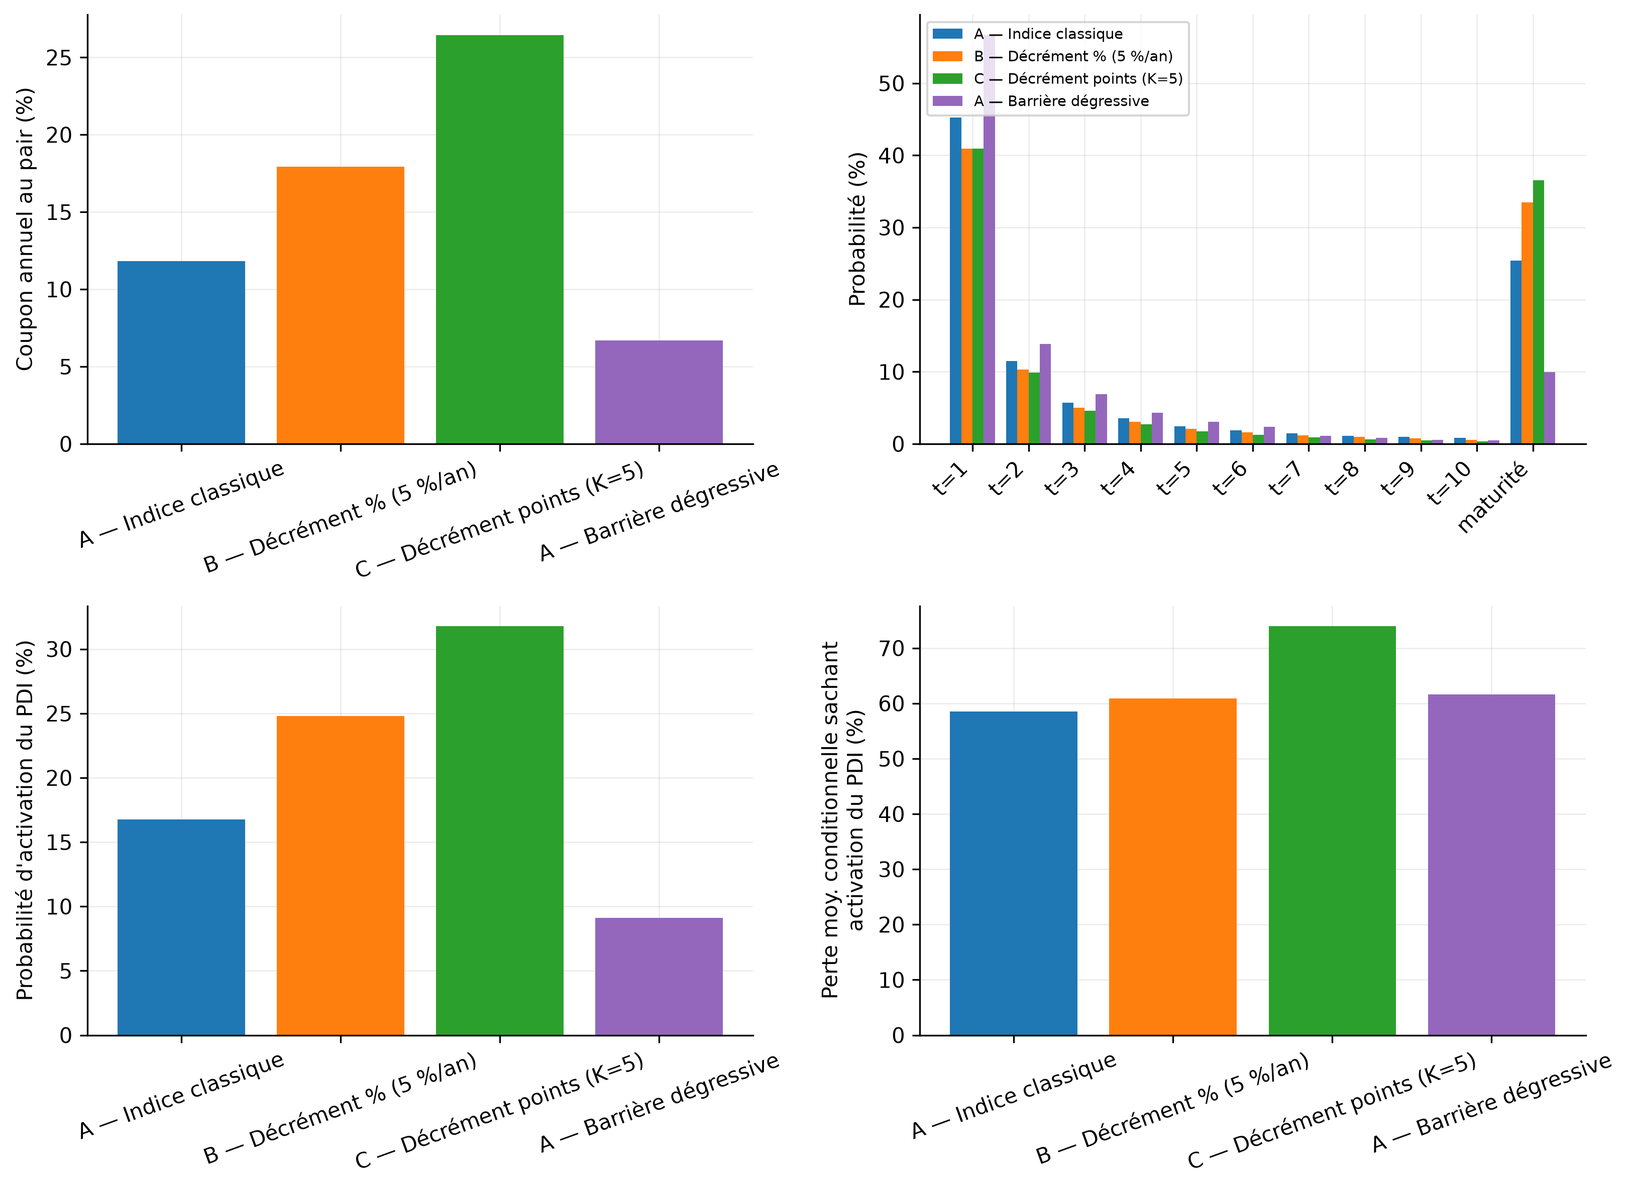
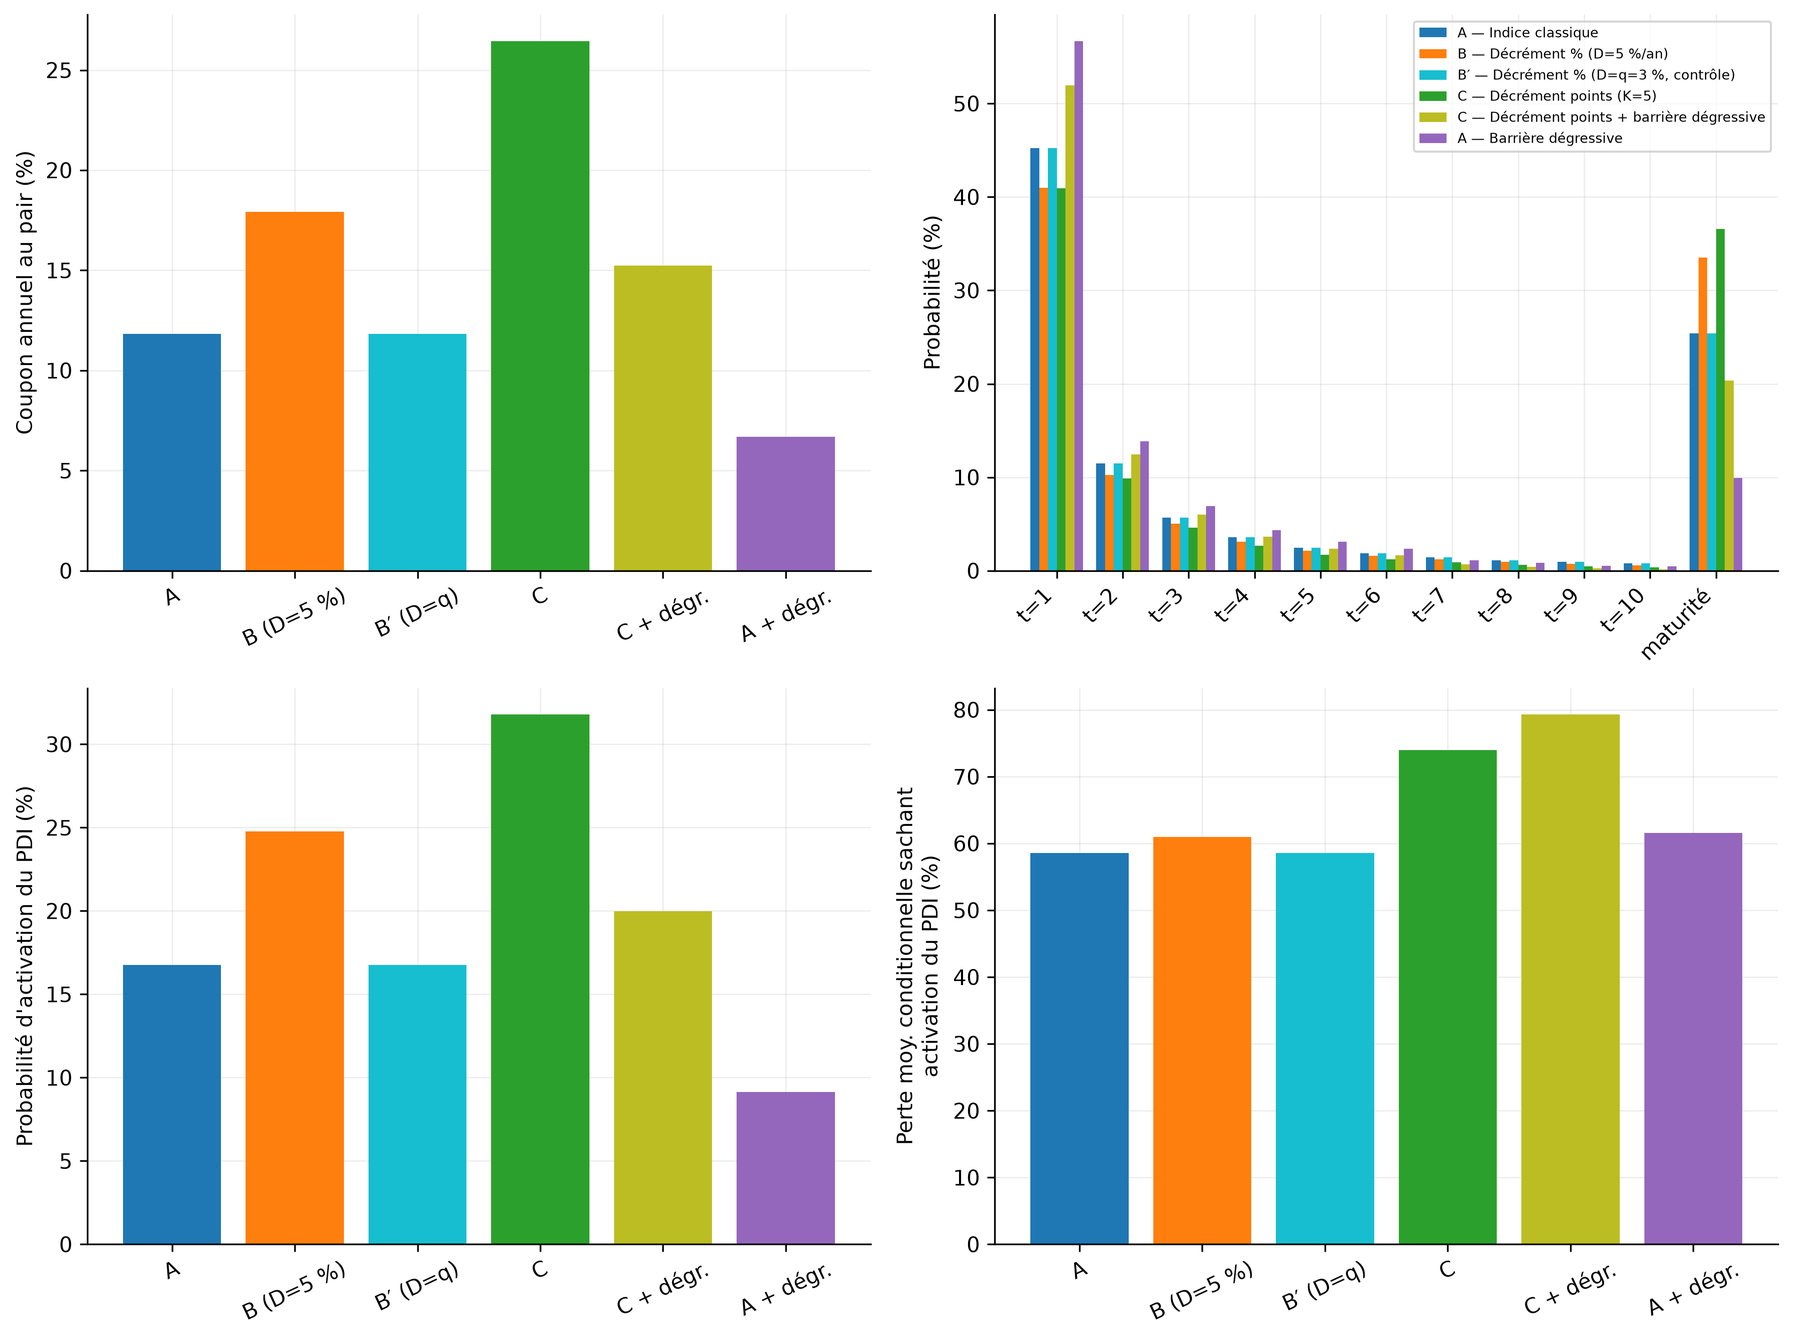
Figure 2 : ajoute les cas de contrôle B' et C'
B' — décrément en % avec D=q=3% : cas de contrôle qui isole l'effet du
mécanisme de décrément de l'effet "D > dividende réel". Ajout de
indice_decrement_pourcentage() (dérivé de U sans re-simulation) et de
deux tests vérifiant que B' est identique à A trajectoire par
trajectoire, et donne donc le même coupon au pair.

C' — décrément en points + barrière dégressive : configuration proche
de ce qui se commercialise en retail, où la barrière dégressive
compense le fait que le décrément seul rend le rappel trop improbable.
Coupon au pair 15.2% (contre 26.4% pour C seul), à comparer aux 8-15%
de marché.

Ajoute le forward théorique à 10 ans de chaque sous-jacent au CSV de
résultats (variable qui explique l'essentiel des écarts de coupon).

README : précise que le 26.45% du cas C est un résultat de
démonstration (décrément 5% + barrière plate 100%), pas un niveau de
marché, et documente l'interprétation des cas B' et C'.

Claude-Session: https://claude.ai/code/session_015eQVDicu4ABDg8MAAznT6W

diff --git a/scripts/fig2_autocall_vs_decrement.py b/scripts/fig2_autocall_vs_decrement.py
@@ -2,13 +2,23 @@
 
 Compare, pour un autocall 10 ans / observations annuelles / PDI 60% à maturité :
     A             indice classique (price return)
-    B             indice à décrément en % (5%/an)
+    B             indice à décrément en % (D=5 %/an)
+    B_prime       indice à décrément en % avec D=q=3 % — cas de contrôle : isole
+                  l'effet du mécanisme de décrément de l'effet "D > q" (voir
+                  src/indices.py::indice_decrement_pourcentage). Doit donner le
+                  même coupon au pair qu'A (vérifié par les tests).
     C             indice à décrément en points (K=5, calibré à 5% de S0)
+    C_prime       indice C avec barrière de rappel dégressive (-5 %/an, plancher
+                  70 %) — configuration réellement commercialisée en retail : le
+                  décrément seul rend le rappel trop improbable (cf. C), la
+                  barrière dégressive compense.
     A_degressive  indice A avec barrière de rappel dégressive (-5%/an, plancher 70%)
 
 Pour chacun : coupon au pair (solveur Brent, trajectoires figées), distribution
-des dates de rappel, probabilité d'activation du PDI et perte moyenne
-conditionnelle. Écrit figures/figure2_autocall_vs_decrement.png (300 dpi) et
+des dates de rappel, probabilité d'activation du PDI, perte moyenne
+conditionnelle, et forward théorique à maturité de l'indice sous-jacent (la
+variable qui explique l'essentiel des écarts de coupon entre cas). Écrit
+figures/figure2_autocall_vs_decrement.png (300 dpi) et
 figures/figure2_resultats.{csv,md}.
 """
 
@@ -22,9 +32,14 @@ import matplotlib.pyplot as plt
 
 sys.path.insert(0, os.path.abspath(os.path.join(os.path.dirname(__file__), "..")))
 
-from src.indices import simuler_indices, barriere_degressive
+from src.indices import (
+    simuler_indices,
+    barriere_degressive,
+    indice_decrement_pourcentage,
+    forward_theorique_decrement_points,
+)
 from src.coupon_solver import resoudre_coupon_pair
-from src.style_graphique import appliquer_style, PALETTE, LIBELLES, ORDRE_CAS
+from src.style_graphique import appliquer_style, PALETTE, LIBELLES, LIBELLES_COURTS, ORDRE_CAS
 from src.reporting import ecrire_csv_et_md
 
 # ---------------------------------------------------------------------------
@@ -55,11 +70,33 @@ def construire_cas(indices):
     barriere_deg = barriere_degressive(
         DATES_OBS, niveau_initial=BARRIERE_AUTOCALL, baisse_annuelle=0.05, plancher=0.70
     )
+    # B' : décrément en % au niveau du dividende réel (D=q) — cas de contrôle,
+    # dérivé de U sans re-simulation (cf. indice_decrement_pourcentage).
+    B_prime_obs = indice_decrement_pourcentage(indices["U"], indices["t_obs"], D=Q)
     return {
         "A": (indices["A"][:, 1:], barriere_plate),
         "B": (indices["B"][:, 1:], barriere_plate),
+        "B_prime": (B_prime_obs[:, 1:], barriere_plate),
         "C": (indices["C"][:, 1:], barriere_plate),
+        "C_prime": (indices["C"][:, 1:], barriere_deg),
         "A_degressive": (indices["A"][:, 1:], barriere_deg),
+    }
+
+
+def forward_theorique_par_cas():
+    """Forward théorique à MATURITE de l'indice sous-jacent effectivement pricé
+    dans chaque cas (seule la barrière diffère pour A_degressive et C_prime,
+    donc même forward que leur cas de base A / C)."""
+    forward_A = S0 * np.exp((R - Q) * MATURITE)
+    forward_B = S0 * np.exp((R - D) * MATURITE)
+    forward_C = forward_theorique_decrement_points(S0, R, K, MATURITE, NB_PAS_AN)
+    return {
+        "A": forward_A,
+        "B": forward_B,
+        "B_prime": forward_A,   # D=q => identique à A (voir test dédié)
+        "C": forward_C,
+        "C_prime": forward_C,   # même sous-jacent C, seule la barrière change
+        "A_degressive": forward_A,
     }
 
 
@@ -82,6 +119,7 @@ def main():
     print(f"  -> simulation terminée en {time.time() - t0:.1f}s")
 
     cas = construire_cas(indices)
+    forward_par_cas = forward_theorique_par_cas()
 
     lignes = []
     resultats = {}
@@ -103,6 +141,7 @@ def main():
 
         ligne = {
             "cas": LIBELLES[nom],
+            "forward_theorique_10y": forward_par_cas[nom],
             "coupon_pair_pct": coupon_pair * 100,
             "prix_verif_pct": resultat.prix * 100,
             "erreur_std_mc_pct": resultat.erreur_std * 100,
@@ -114,7 +153,8 @@ def main():
             ligne[f"proba_rappel_t{int(t)}_pct"] = proba_rappel[t] * 100
         lignes.append(ligne)
         print(f"  {nom:15s} coupon au pair = {coupon_pair * 100:5.2f}%  "
-              f"(prix vérif = {resultat.prix * 100:.2f}%, erreur std {resultat.erreur_std * 100:.3f}%)")
+              f"(forward 10y = {forward_par_cas[nom]:.1f}, "
+              f"prix vérif = {resultat.prix * 100:.2f}%, erreur std {resultat.erreur_std * 100:.3f}%)")
 
     df = pd.DataFrame(lignes)
     os.makedirs(REPERTOIRE_FIGURES, exist_ok=True)
@@ -126,47 +166,50 @@ def main():
 
 def tracer_figure(resultats):
     appliquer_style()
-    fig, axes = plt.subplots(2, 2, figsize=(11, 8))
+    fig, axes = plt.subplots(2, 2, figsize=(12, 9))
 
     noms = ORDRE_CAS
     couleurs = [PALETTE[n] for n in noms]
     libelles = [LIBELLES[n] for n in noms]
+    libelles_courts = [LIBELLES_COURTS[n] for n in noms]
+    n_cas = len(noms)
 
     # (a) coupon au pair
     ax = axes[0, 0]
     coupons = [resultats[n]["coupon_pair"] * 100 for n in noms]
-    ax.bar(libelles, coupons, color=couleurs)
+    ax.bar(libelles_courts, coupons, color=couleurs)
     ax.set_ylabel("Coupon annuel au pair (%)")
-    ax.tick_params(axis="x", rotation=20)
+    ax.tick_params(axis="x", rotation=25)
 
     # (b) distribution des dates de rappel + probabilité d'aller à maturité
     ax = axes[0, 1]
-    largeur = 0.2
+    largeur = 0.8 / n_cas
     x_dates = np.arange(len(DATES_OBS) + 1)
     etiquettes_x = [f"t={int(t)}" for t in DATES_OBS] + ["maturité"]
     for i, n in enumerate(noms):
         proba_rappel = resultats[n]["proba_rappel"]
         proba_maturite = resultats[n]["proba_maturite"]
         valeurs = [proba_rappel[t] * 100 for t in DATES_OBS] + [proba_maturite * 100]
-        ax.bar(x_dates + (i - 1.5) * largeur, valeurs, width=largeur, color=PALETTE[n], label=libelles[i])
+        decalage = (i - (n_cas - 1) / 2) * largeur
+        ax.bar(x_dates + decalage, valeurs, width=largeur, color=PALETTE[n], label=libelles[i])
     ax.set_xticks(x_dates)
     ax.set_xticklabels(etiquettes_x, rotation=45, ha="right")
     ax.set_ylabel("Probabilité (%)")
-    ax.legend(fontsize=7, loc="upper left")
+    ax.legend(fontsize=6.5, loc="upper right")
 
     # (c) probabilité d'activation du PDI
     ax = axes[1, 0]
     probas_pdi = [resultats[n]["proba_pdi"] * 100 for n in noms]
-    ax.bar(libelles, probas_pdi, color=couleurs)
+    ax.bar(libelles_courts, probas_pdi, color=couleurs)
     ax.set_ylabel("Probabilité d'activation du PDI (%)")
-    ax.tick_params(axis="x", rotation=20)
+    ax.tick_params(axis="x", rotation=25)
 
     # (d) perte moyenne conditionnelle sachant activation du PDI
     ax = axes[1, 1]
     pertes = [resultats[n]["perte_cond"] * 100 for n in noms]
-    ax.bar(libelles, pertes, color=couleurs)
+    ax.bar(libelles_courts, pertes, color=couleurs)
     ax.set_ylabel("Perte moy. conditionnelle sachant\nactivation du PDI (%)")
-    ax.tick_params(axis="x", rotation=20)
+    ax.tick_params(axis="x", rotation=25)
 
     fig.tight_layout()
     chemin = os.path.join(REPERTOIRE_FIGURES, "figure2_autocall_vs_decrement.png")

diff --git a/tests/test_pricer_autocall.py b/tests/test_pricer_autocall.py
@@ -1,6 +1,7 @@
 import numpy as np
+import pytest
 
-from src.indices import simuler_indices, barriere_degressive
+from src.indices import simuler_indices, barriere_degressive, indice_decrement_pourcentage
 from src.pricer_autocall import pricer_autocall
 from src.coupon_solver import resoudre_coupon_pair
 
@@ -48,6 +49,20 @@ def test_coupon_solver_converge_au_pair():
     coupon_pair, resultat = resoudre_coupon_pair(spots_A, S0, R, DATES_OBS, 1.0, BARRIERE_CAP, nominal=1.0)
     assert 0.0 < coupon_pair < 0.20
     assert abs(resultat.prix - 1.0) < 5 * resultat.erreur_std
+
+
+def test_coupon_pair_identique_entre_A_et_B_prime_cas_de_controle():
+    # Cas de contrôle B' (D=q) : même sous-jacent qu'A trajectoire par trajectoire,
+    # donc même coupon au pair (aux résidus numériques du solveur près, pas un
+    # écart Monte Carlo puisque ce sont les mêmes trajectoires).
+    res = _indices(nb_sim=40_000)
+    spots_A = res["A"][:, 1:]
+    B_prime_obs = indice_decrement_pourcentage(res["U"], res["t_obs"], D=Q)[:, 1:]
+
+    coupon_A, _ = resoudre_coupon_pair(spots_A, S0, R, DATES_OBS, 1.0, BARRIERE_CAP)
+    coupon_B_prime, _ = resoudre_coupon_pair(B_prime_obs, S0, R, DATES_OBS, 1.0, BARRIERE_CAP)
+
+    assert coupon_A == pytest.approx(coupon_B_prime, abs=1e-6)
 
 
 def test_pdi_actif_seulement_a_maturite_sous_la_barriere():

diff --git a/src/style_graphique.py b/src/style_graphique.py
@@ -4,23 +4,37 @@ grille légère, labels en français."""
 
 import matplotlib.pyplot as plt
 
-# Palette cohérente pour les 4 cas comparés dans le mémoire (indices A/B/C et
-# variante à barrière dégressive). Réutilisée par les Figures 1, 2 et 3.
+# Palette cohérente pour les cas comparés dans le mémoire (indices A/B/C, leurs
+# variantes de contrôle B' et C', et la barrière dégressive). Réutilisée par
+# les Figures 1, 2 et 3.
 PALETTE = {
     "A": "#1f77b4",
     "B": "#ff7f0e",
     "C": "#2ca02c",
     "A_degressive": "#9467bd",
+    "B_prime": "#17becf",
+    "C_prime": "#bcbd22",
 }
 
 LIBELLES = {
     "A": "A — Indice classique",
-    "B": "B — Décrément % (5 %/an)",
+    "B": "B — Décrément % (D=5 %/an)",
     "C": "C — Décrément points (K=5)",
     "A_degressive": "A — Barrière dégressive",
+    "B_prime": "B′ — Décrément % (D=q=3 %, contrôle)",
+    "C_prime": "C — Décrément points + barrière dégressive",
 }
 
-ORDRE_CAS = ["A", "B", "C", "A_degressive"]
+LIBELLES_COURTS = {
+    "A": "A",
+    "B": "B (D=5 %)",
+    "C": "C",
+    "A_degressive": "A + dégr.",
+    "B_prime": "B′ (D=q)",
+    "C_prime": "C + dégr.",
+}
+
+ORDRE_CAS = ["A", "B", "B_prime", "C", "C_prime", "A_degressive"]
 
 
 def appliquer_style():

diff --git a/src/indices.py b/src/indices.py
@@ -85,9 +85,24 @@ def simuler_indices(s0, r, q, sigma, D, K, T, nb_pas_an, dates_obs, nb_sim, seed
             C_obs[:, k + 1] = C_cur
 
     t_obs_complet = np.concatenate([[0.0], dates_obs])
-    B_obs = U_obs * np.exp(-D * t_obs_complet)[None, :]
+    B_obs = indice_decrement_pourcentage(U_obs, t_obs_complet, D)
 
     return {"t_obs": t_obs_complet, "A": A_obs, "U": U_obs, "B": B_obs, "C": C_obs}
+
+
+def indice_decrement_pourcentage(U_obs, t_obs, D):
+    """B_t = U_t * exp(-D*t), à partir des valeurs déjà simulées de l'indice
+    total return U (pas de re-simulation nécessaire : le décrément en % est un
+    multiplicateur déterministe appliqué à U).
+
+    Cas particulier notable (cas de contrôle B' de la Figure 2) : si D = q,
+    B_t = U_t * exp(-q*t) est identique, trajectoire par trajectoire, à
+    l'indice classique A (même construction : mêmes chocs, drift r-q). Le
+    mécanisme de décrément en % est donc, en lui-même, neutre — tout l'écart
+    entre B et A dans la Figure 2 vient du fait que D (5 %) est fixé
+    au-dessus du dividende réel q (3 %), pas du mécanisme en tant que tel.
+    """
+    return U_obs * np.exp(-D * np.asarray(t_obs))[None, :]
 
 
 def forward_theorique_decrement_points(s0, r, K, T, nb_pas_an):

diff --git a/tests/test_indices.py b/tests/test_indices.py
@@ -5,6 +5,7 @@ from src.indices import (
     simuler_indices,
     forward_theorique_decrement_points,
     barriere_degressive,
+    indice_decrement_pourcentage,
 )
 
 S0, R, Q, SIGMA, D, K = 100.0, 0.025, 0.03, 0.18, 0.05, 5.0
@@ -59,6 +60,16 @@ def test_barriere_degressive_decroissante_et_plafonnee():
     assert b[-1] == pytest.approx(0.70)
     assert np.all(np.diff(b) <= 0)
     assert np.all(b >= 0.70)
+
+
+def test_decrement_pourcentage_egal_dividende_redonne_indice_classique():
+    # Cas de contrôle B' de la Figure 2 : quand D = q, l'indice à décrément en %
+    # est identique, trajectoire par trajectoire, à l'indice classique A (même
+    # construction : mêmes chocs, même drift effectif r - q). Isole l'effet du
+    # mécanisme de décrément de l'effet "D > q".
+    res = _simuler(nb_sim=2_000, nb_pas_an=12)
+    B_prime = indice_decrement_pourcentage(res["U"], res["t_obs"], D=Q)
+    np.testing.assert_allclose(B_prime, res["A"], rtol=1e-9, atol=1e-9)
 
 
 def test_memes_chocs_partages_entre_A_et_U():

diff --git a/README.md b/README.md
@@ -179,8 +179,9 @@ et leurs sorties chiffrées réutilisables directement dans le texte.
 
 - `src/` : `marche.py` (paramètres marché), `simulation.py` (GBM générique, variables
   antithétiques), `indices.py` (indices A/B/C construits sur les mêmes chocs gaussiens,
-  barrière dégressive), `pricer_autocall.py` (pricer MC de l'autocall), `coupon_solver.py`
-  (coupon au pair par dichotomie de Brent), `style_graphique.py` / `reporting.py` (rendu).
+  cas de contrôle B′, barrière dégressive), `pricer_autocall.py` (pricer MC de
+  l'autocall), `coupon_solver.py` (coupon au pair par dichotomie de Brent),
+  `style_graphique.py` / `reporting.py` (rendu).
 - `scripts/` : un script par figure, qui écrit son PNG (300 dpi, `figures/`) et ses
   résultats numériques (`figures/*.csv` et `.md`).
 - `tests/` : pytest (convergence, parités, cas limites — voir plus bas).
@@ -208,6 +209,43 @@ toucher de coupon**. Une partie de la hausse du coupon facial affichée par les 
 décrément compense donc explicitement ce risque de ne rien percevoir, et pas seulement
 le risque de perte en capital — c'est un point de lecture essentiel pour l'interprétation
 de la Figure 2, distinct de la seule probabilité d'activation du PDI.
+
+### Le coupon de 26,45 % du cas C n'est pas un niveau de marché
+
+Le coupon au pair obtenu pour l'indice à décrément en points (cas C, D implicite très
+supérieur à 5 % en fin de période) est de **26,45 %** — un niveau qui ne se rencontre pas
+en pratique sur ce type de produit. Ce n'est pas une anomalie du pricer : c'est la
+conséquence directe et attendue de la combinaison **décrément de 5 % + barrière de
+rappel constante à 100 %** sur 10 ans. Avec cette combinaison, le rappel devient de plus
+en plus improbable au fil des années (l'indice décroche mécaniquement de la barrière), le
+produit va très souvent jusqu'à maturité — et, du fait de la convention « à mémoire sans
+barrière de coupon indépendante » ci-dessus, ne verse alors aucun coupon. Le coupon
+facial doit donc devenir extrême pour compenser, sur les scénarios où le rappel a
+effectivement lieu, la probabilité élevée de n'en toucher aucun. **Ce chiffre est un
+résultat de démonstration, pas une proposition de structuration réaliste.**
+
+Deux cas supplémentaires isolent chacun un aspect de cette lecture :
+
+- **B′ — décrément en % avec D = q = 3 %** (cas de contrôle). En fixant le décrément
+  exactement au niveau du dividende réel de l'indice A, B′ est — trajectoire par
+  trajectoire, pas seulement en espérance — **identique à A** (voir
+  `src/indices.py::indice_decrement_pourcentage` et le test associé). Le coupon au pair
+  obtenu est rigoureusement le même que celui d'A (11,83 %). Cela isole l'effet du
+  *mécanisme* de décrément de l'effet « le décrément excède le dividende réel » : tout
+  l'écart entre B (17,92 %) et A vient des 2 points de décrément en trop (5 % contre 3 %
+  de dividende réel), pas du mécanisme en tant que tel.
+- **C′ — décrément en points + barrière dégressive** (−5 %/an, plancher 70 %), qui
+  correspond à la configuration réellement commercialisée en retail : le décrément seul
+  (cas C) rend le rappel trop improbable pour être vendable, la barrière dégressive le
+  compense en facilitant le rappel anticipé. Le coupon au pair retombe à **15,2 %**, à la
+  limite haute d'une fourchette de marché plausible (8–15 %), contre 26,45 % pour C seul.
+  La probabilité d'activation du PDI redescend également, de 31,8 % (C) à 20,0 % (C′),
+  mais reste supérieure à celle d'A (16,8 %) : la barrière dégressive atténue l'effet du
+  décrément sur le risque de perte en capital, elle ne l'annule pas. Fait notable, la
+  perte moyenne *conditionnelle* sachant activation du PDI est en revanche légèrement
+  plus élevée pour C′ (79,3 %) que pour C (73,9 %) : en rappelant plus tôt les scénarios
+  favorables, la barrière dégressive concentre les trajectoires survivant jusqu'à
+  maturité sur les scénarios les plus dégradés.
 
 ### Hypothèses de modélisation et leurs limites
 

diff --git a/figures/figure2_resultats.md b/figures/figure2_resultats.md
@@ -1,6 +1,8 @@
-| cas | coupon_pair_pct | prix_verif_pct | erreur_std_mc_pct | proba_maturite_pct | proba_pdi_actif_pct | perte_moyenne_cond_pct | proba_rappel_t1_pct | proba_rappel_t2_pct | proba_rappel_t3_pct | proba_rappel_t4_pct | proba_rappel_t5_pct | proba_rappel_t6_pct | proba_rappel_t7_pct | proba_rappel_t8_pct | proba_rappel_t9_pct | proba_rappel_t10_pct |
-|---|---|---|---|---|---|---|---|---|---|---|---|---|---|---|---|---|
-| A — Indice classique | 11.833 | 100.000 | 0.078 | 25.410 | 16.755 | 58.570 | 45.221 | 11.485 | 5.681 | 3.580 | 2.469 | 1.850 | 1.431 | 1.106 | 0.964 | 0.803 |
-| B — Décrément % (5 %/an) | 17.923 | 100.000 | 0.104 | 33.492 | 24.785 | 60.936 | 40.964 | 10.272 | 5.021 | 3.084 | 2.115 | 1.572 | 1.204 | 0.951 | 0.740 | 0.584 |
-| C — Décrément points (K=5) | 26.447 | 100.000 | 0.139 | 36.581 | 31.776 | 73.945 | 40.945 | 9.872 | 4.619 | 2.695 | 1.719 | 1.240 | 0.881 | 0.636 | 0.468 | 0.343 |
-| A — Barrière dégressive | 6.679 | 100.000 | 0.052 | 9.923 | 9.131 | 61.595 | 56.683 | 13.821 | 6.896 | 4.332 | 3.087 | 2.336 | 1.089 | 0.818 | 0.544 | 0.472 |
+| cas | forward_theorique_10y | coupon_pair_pct | prix_verif_pct | erreur_std_mc_pct | proba_maturite_pct | proba_pdi_actif_pct | perte_moyenne_cond_pct | proba_rappel_t1_pct | proba_rappel_t2_pct | proba_rappel_t3_pct | proba_rappel_t4_pct | proba_rappel_t5_pct | proba_rappel_t6_pct | proba_rappel_t7_pct | proba_rappel_t8_pct | proba_rappel_t9_pct | proba_rappel_t10_pct |
+|---|---|---|---|---|---|---|---|---|---|---|---|---|---|---|---|---|---|
+| A — Indice classique | 95.123 | 11.833 | 100.000 | 0.078 | 25.410 | 16.755 | 58.570 | 45.221 | 11.485 | 5.681 | 3.580 | 2.469 | 1.850 | 1.431 | 1.106 | 0.964 | 0.803 |
+| B — Décrément % (D=5 %/an) | 77.880 | 17.923 | 100.000 | 0.104 | 33.492 | 24.785 | 60.936 | 40.964 | 10.272 | 5.021 | 3.084 | 2.115 | 1.572 | 1.204 | 0.951 | 0.740 | 0.584 |
+| B′ — Décrément % (D=q=3 %, contrôle) | 95.123 | 11.833 | 100.000 | 0.078 | 25.410 | 16.755 | 58.570 | 45.221 | 11.485 | 5.681 | 3.580 | 2.469 | 1.850 | 1.431 | 1.106 | 0.964 | 0.803 |
+| C — Décrément points (K=5) | 71.600 | 26.447 | 100.000 | 0.139 | 36.581 | 31.776 | 73.945 | 40.945 | 9.872 | 4.619 | 2.695 | 1.719 | 1.240 | 0.881 | 0.636 | 0.468 | 0.343 |
+| C — Décrément points + barrière dégressive | 71.600 | 15.225 | 100.000 | 0.100 | 20.365 | 19.994 | 79.268 | 51.970 | 12.441 | 5.989 | 3.643 | 2.362 | 1.674 | 0.704 | 0.402 | 0.278 | 0.172 |
+| A — Barrière dégressive | 95.123 | 6.679 | 100.000 | 0.052 | 9.923 | 9.131 | 61.595 | 56.683 | 13.821 | 6.896 | 4.332 | 3.087 | 2.336 | 1.089 | 0.818 | 0.544 | 0.472 |
